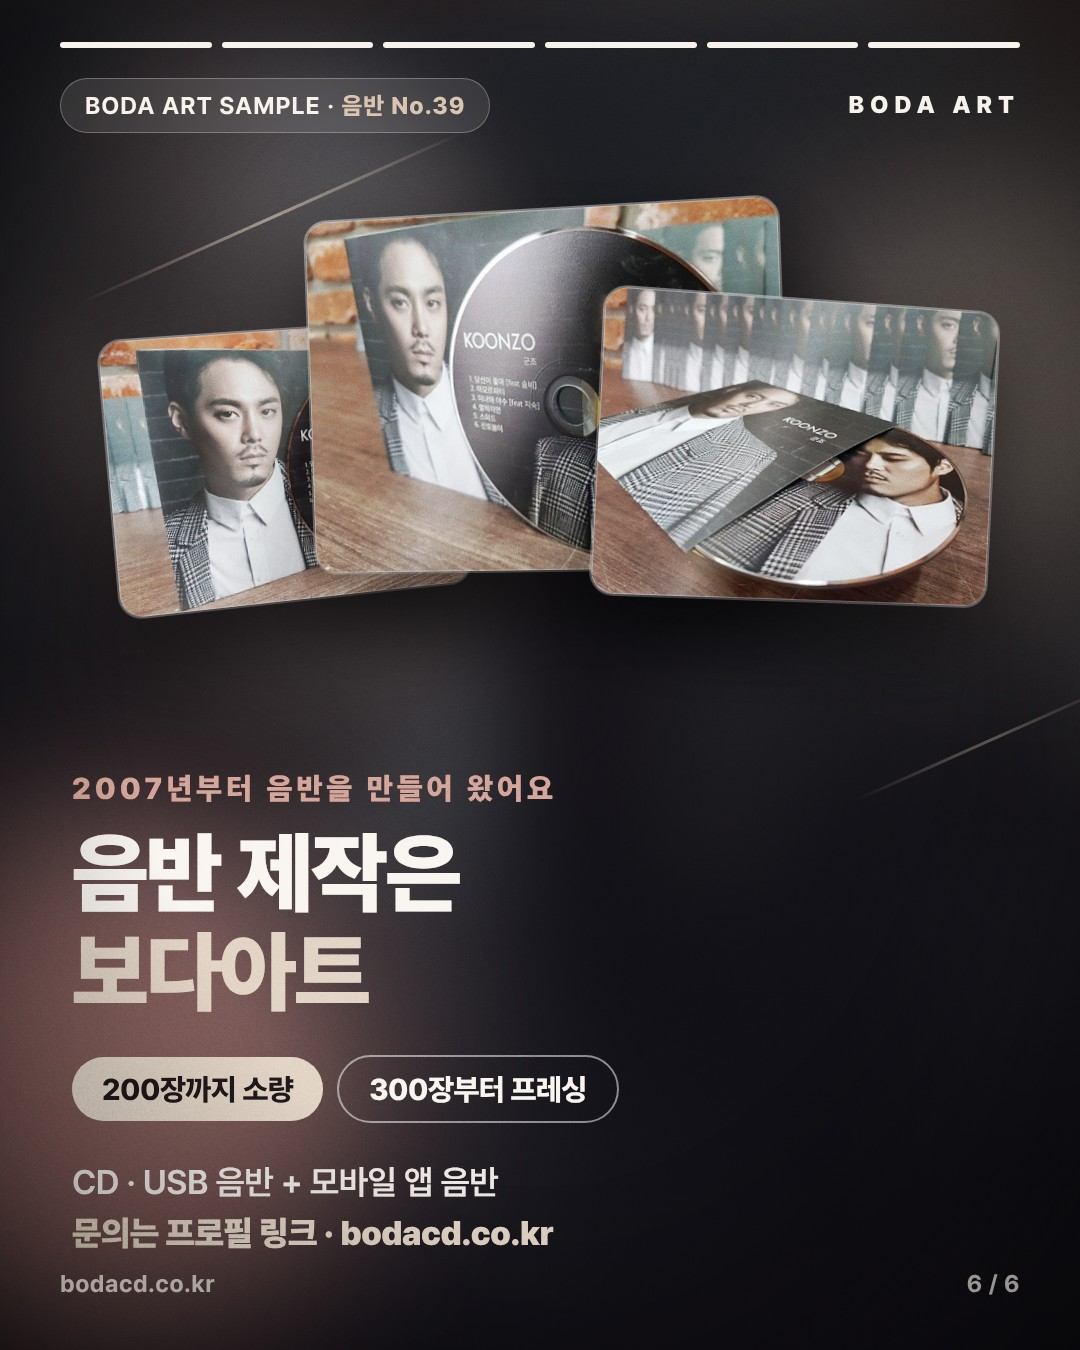
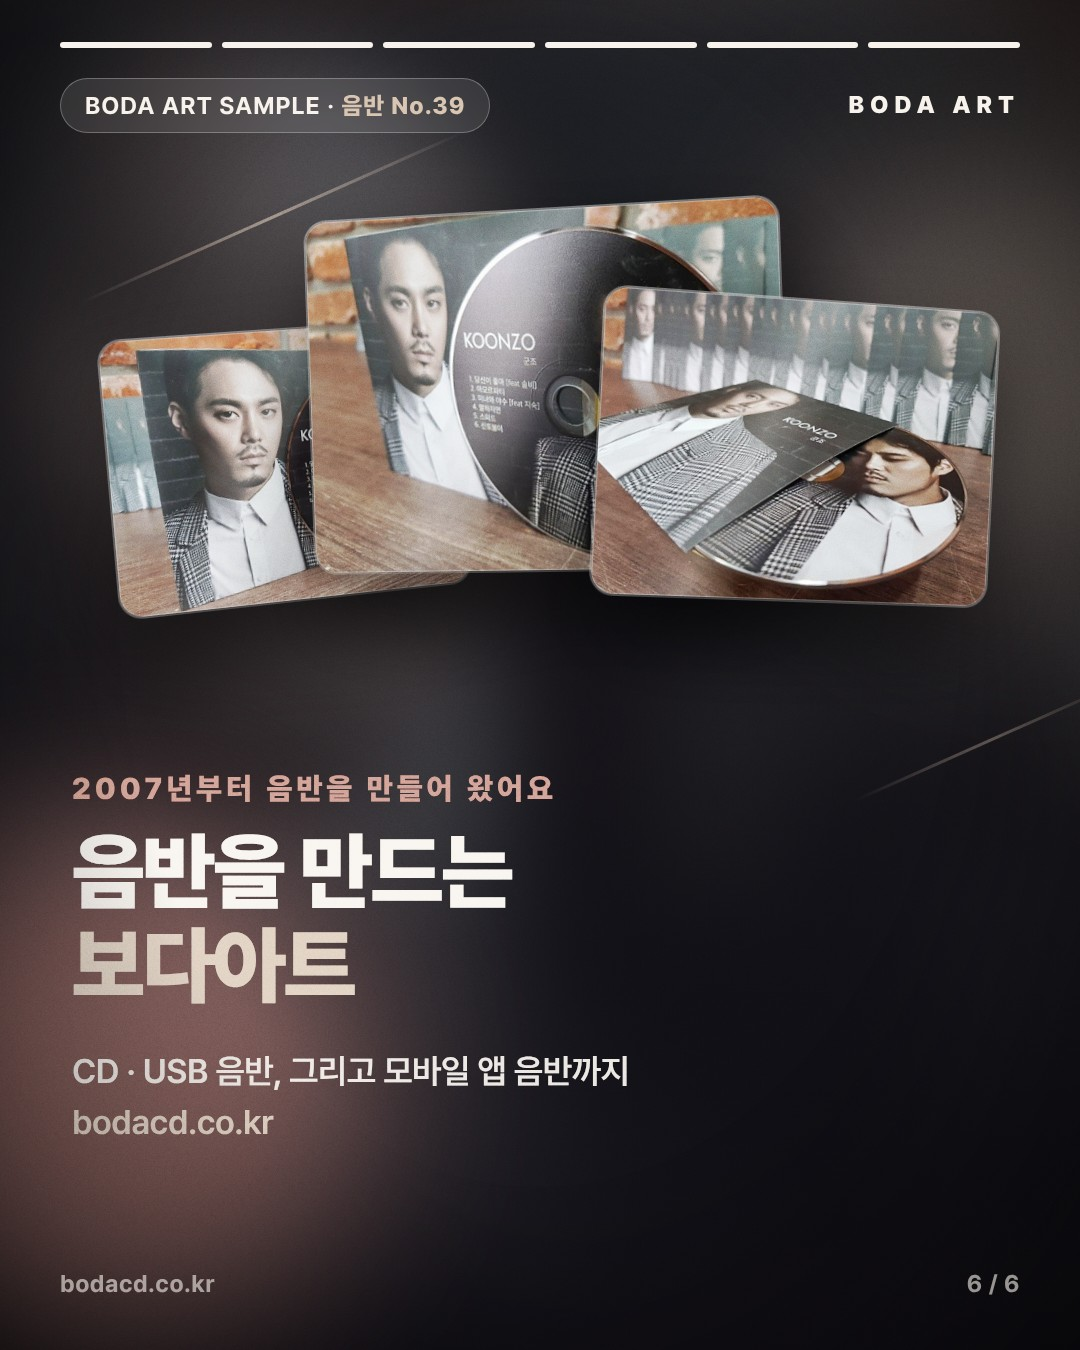
조회수 원칙 적용: 해시태그 5개, 설명글 첫 줄 물건 이름, 릴스 보내기 한 줄, 캐러셀 마지막 장 광고 느낌 덜어냄
Claude-Session: https://claude.ai/code/session_01VVfdGbvnGmCZW5mtLP5JFu

Changed region(s): [[0.0611, 0.7778, 0.5806, 0.9333], [0.0611, 0.5911, 0.4889, 0.7467]]

diff --git a/docs/pf_src/week5.py b/docs/pf_src/week5.py
@@ -28,6 +28,24 @@ LAB = {'album': '음반', 'usb': 'USB 음반'}
 HEAD = '보다아트에서 만든 샘플을 하나씩 소개해요.'
 Y07 = '보다아트는 2007년부터 음반을 만들어 왔어요.'
 CDQ = ' 200장까지는 소량으로, 300장부터는 프레싱으로 만들어요.'
+# 11.15 조회수 원칙: 첫 줄에 물건 이름(검색어) + 넘겨 보라는 말, 해시태그는 5개까지(인스타 25.12 규칙).
+# 같은 날 승민 "너무 광고성으로만 가지말고 사람들에게 우리것을 알리는 정도로" → 저장·보내기 권유 줄은 넣지 않고 소개하는 말투로.
+SWIPE = '보다아트가 만든 음반을 하나씩 소개해요. 옆으로 넘겨 보세요 👉'
+TAG5 = {35: '#음반제작 #CD제작 #소량CD제작 #인디음반 #보다아트', 36: '#음반제작 #뮤지컬OST #싸바리 #무인도탈출기 #보다아트',
+  37: '#음반제작 #CD제작 #핑크퐁 #종이케이스 #보다아트', 38: '#앨범제작 #음반패키지 #멀티케이스 #포토카드 #보다아트',
+  39: '#음반제작 #CD제작 #종이케이스 #군조 #보다아트', 40: '#음반제작 #영상음반 #싸바리 #한정반 #보다아트',
+  41: '#음반제작 #CD제작 #기념음반 #평창올림픽 #보다아트', 42: '#음반제작 #앨범제작 #싸바리 #렌카 #보다아트',
+  43: '#음반제작 #CD제작 #종이케이스 #힙합 #보다아트', 44: '#음반제작 #앨범제작 #블루레이케이스 #음반패키지 #보다아트',
+  45: '#음반제작 #CD제작 #교육용CD #동요CD #보다아트', 46: '#음반제작 #앨범제작 #싸바리 #CD케이스 #보다아트'}  # 손으로 고른 5개(없으면 pick5)
+def pick5(tags):
+    t = tags.split()
+    core = [x for x in ['#음반제작', '#앨범제작', '#CD제작', '#USB음반'] if x in t][:2]
+    spec = [x for x in t if x not in core and x not in ('#보다아트', '#그때그시절') and x not in ['#음반제작', '#앨범제작', '#CD제작', '#USB음반']]
+    out = core + spec[-2:] + ['#보다아트']
+    for x in t:
+        if len(out) >= 5: break
+        if x not in out: out.append(x)
+    return ' '.join(out[:5])
 CTA = {'album': '비슷한 음반을 생각하고 계시면 프로필 링크로 편하게 물어봐 주세요.',
        'pkg': '비슷한 패키지를 생각하고 계시면 프로필 링크로 편하게 물어봐 주세요.',
        'usb': 'USB 음반이 궁금하시면 프로필 링크로 편하게 물어봐 주세요.',
@@ -121,9 +139,9 @@ for date, time, cat, no, idx, order, title, head, intro, spec_lines, mean, then,
         photos.append(ph)
     sid = f'pf{cat}{no:02d}v1'
     specs.append({'id': sid, 'label': LAB[cat], 'no': no, 'title': title, 'photos': photos, 'src_index': idx, 'foot': 'bodacd.co.kr'})
-    parts = [HEAD, f'[{LAB[cat]}] {head}', '\n'.join(intro), '\n'.join('· ' + s for s in spec_lines), mean + '\n' + then]
+    parts = [f'{head}\n' + SWIPE, '\n'.join(intro), '\n'.join('· ' + s for s in spec_lines), mean + '\n' + then]
     parts.append(Y07 + (CDQ if iscd else '') + '\n' + CTA[cta])
-    parts.append(tags)
+    parts.append(TAG5.get(no) or pick5(tags))
     cap = '\n\n'.join(parts)
     queue.append({'id': sid, 'date': '2026-' + date, 'time': time, 'cat': cat, 'ref': f'2026-{date} {LAB[cat]} No.{no:02d} {head}', 'caption': cap})
 json.dump(specs, open(OUT + 'week5.json', 'w'), ensure_ascii=False, indent=1)

diff --git a/docs/pf_src/pfmg.py b/docs/pf_src/pfmg.py
@@ -93,6 +93,8 @@ def frame(k, n, no, label, bdimg, inner, foot_r, glow=(ROSE, SAND), big=None):
 
 def parse(cap):
     b = cap.split('\n\n')
+    if '옆으로 넘겨' in b[0]:  # 11.15 새 틀: 첫 덩어리가 "제목\n보다아트가 만든 음반을 하나씩 소개해요. 옆으로 넘겨 보세요"
+        b = [''] + [b[0].split('\n')[0]] + b[1:]
     head = re.sub(r'^\[[^\]]+\]\s*', '', b[1])
     intro = b[2].split('\n')
     specs = [l[2:].split(': ', 1) for l in b[3].split('\n') if l.startswith('· ')]
@@ -162,12 +164,11 @@ def slides(spec, cap, ph):
     c, h = card(*P(1), 300, 210, 480, 360, 'transform:perspective(1400px) rotateY(-10deg) rotate(-2deg)')
     c2, _ = card(*P(2), 600, 300, 400, 300, 'transform:perspective(1400px) rotateY(10deg) rotate(3deg)')
     c3, _ = card(*P(0), 110, 330, 360, 280, 'transform:perspective(1400px) rotateY(12deg) rotate(-5deg)')
-    pills = '<span class="pill lime">200장까지 소량</span> <span class="pill ghost" style="margin-left:10px">300장부터 프레싱</span>' if iscd else '<span class="pill lime">기획부터 생산까지</span>'
+    # 11.15 승민 "너무 광고성으로만 가지말고 우리것을 알리는 정도로" → 수량 알약·문의 문구 없이 소개로 맺음
     inner = c3 + c + c2 + (f'<div style="position:absolute;left:72px;right:72px;top:770px">'
              f'<div class="num">2007년부터 음반을 만들어 왔어요</div>'
-             f'<div class="h" style="font-size:88px;margin-top:18px">음반 제작은<br><span class="s">보다아트</span></div>'
-             f'<div style="margin-top:34px">{pills}</div>'
-             f'<div class="p" style="margin-top:34px;font-size:34px">CD · USB 음반 + 모바일 앱 음반<br><b style="color:{SAND}">문의는 프로필 링크 · bodacd.co.kr</b></div></div>')
+             f'<div class="h" style="font-size:84px;margin-top:18px">음반을 만드는<br><span class="s">보다아트</span></div>'
+             f'<div class="p" style="margin-top:34px;font-size:34px">CD · USB 음반, 그리고 모바일 앱 음반까지<br><span style="color:{SAND}">bodacd.co.kr</span></div></div>')
     out.append(frame(6, n, no, label, P(0)[0], inner, 'bodacd.co.kr'))
     return out
 
